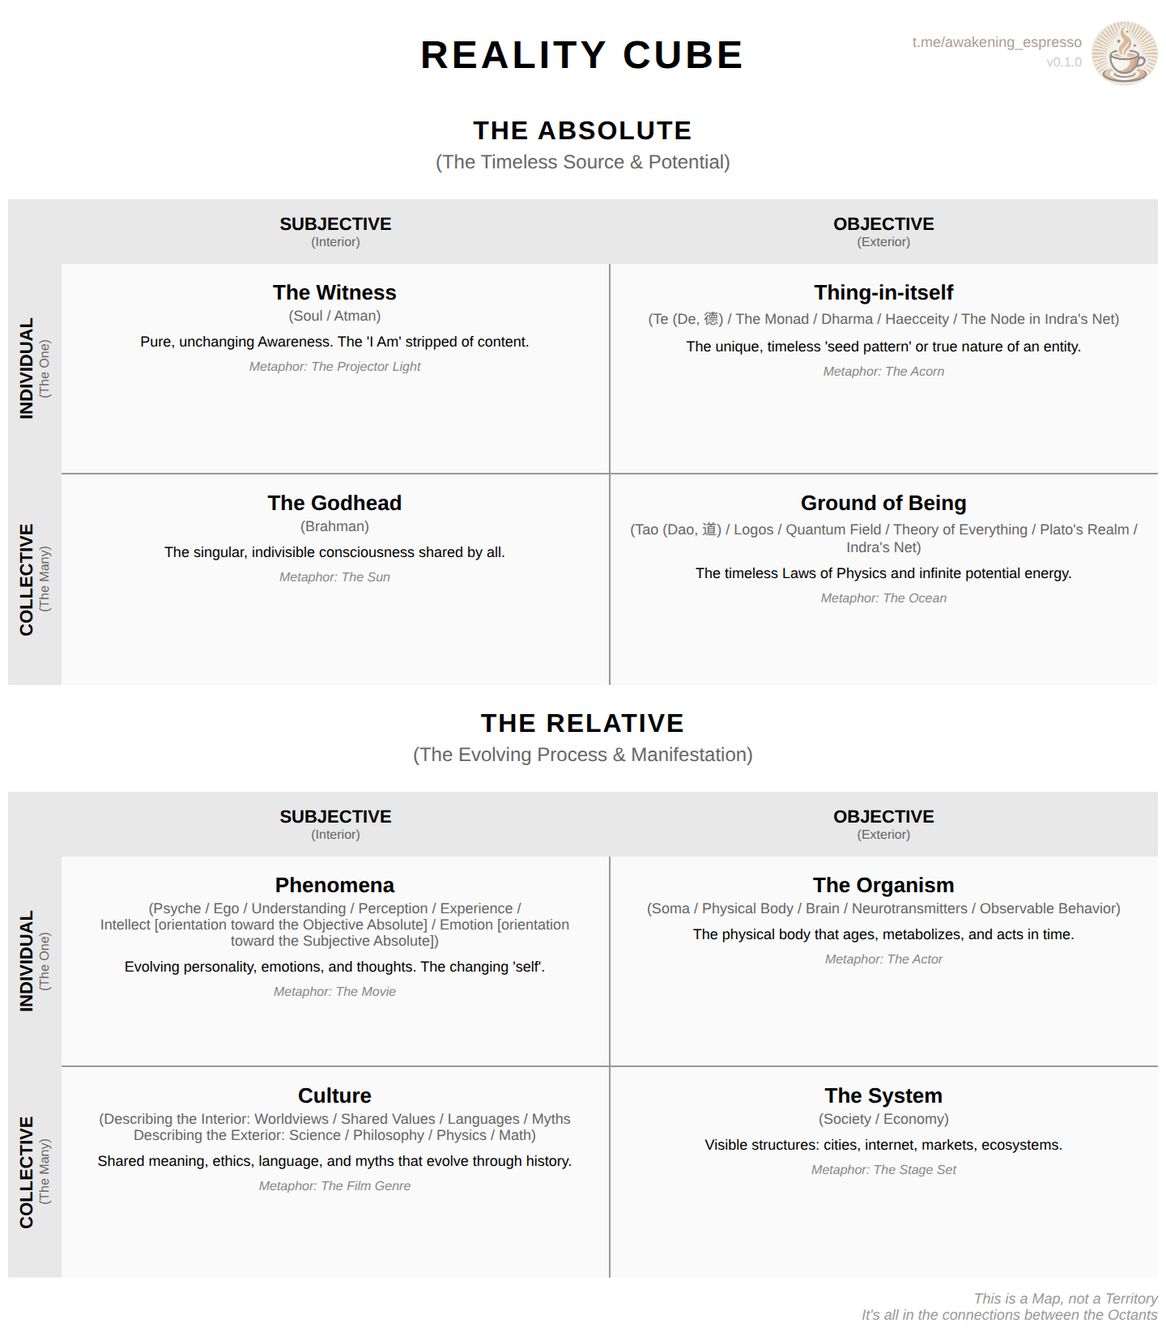
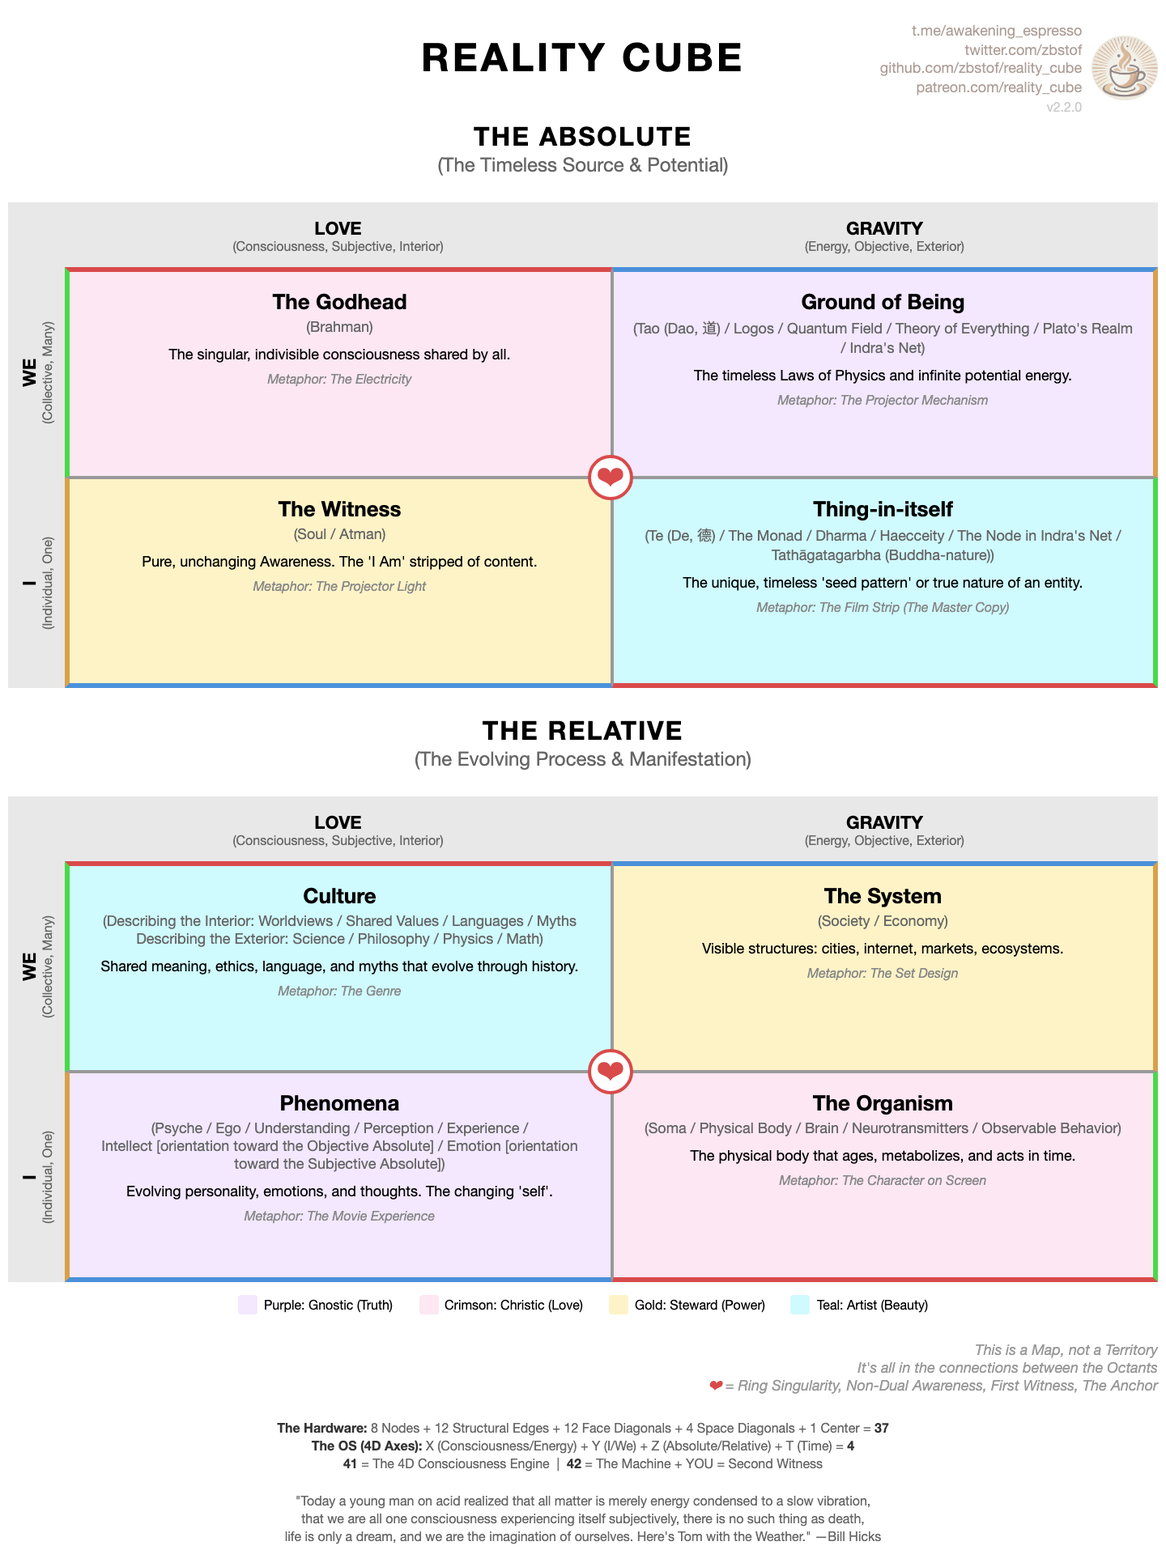
Pre-security patch

diff --git a/index.html b/index.html
@@ -21,6 +21,24 @@
             display: grid;
             grid-template-columns: auto 1fr 1fr;
             grid-template-rows: 40px 130px 130px;
+            position: relative;
+        }
+        .grid-heart {
+            position: absolute;
+            top: calc(40px + 130px);
+            left: calc(50% + 17px);
+            transform: translate(-50%, -50%);
+            font-size: 18px;
+            color: #D94A4A;
+            z-index: 10;
+            background: white;
+            border: 2px solid #D94A4A;
+            border-radius: 50%;
+            width: 28px;
+            height: 28px;
+            display: flex;
+            align-items: center;
+            justify-content: center;
         }
         .header {
             background: #E8E8E8;
@@ -35,10 +53,43 @@
         .header strong { font-size: 11px; }
         .header .hint { font-size: 8px; color: #666; }
         .corner { background: #E8E8E8; }
-        .cell { background: #FAFAFA; padding: 10px 12px; text-align: center; }
-        .cell.tl { border-right: 1px solid #999; border-bottom: 1px solid #999; }
-        .cell.tr { border-bottom: 1px solid #999; }
-        .cell.bl { border-right: 1px solid #999; }
+        .cell { padding: 10px 12px; text-align: center; }
+        /* 4 edge colors for face-diagonal connections within each wall */
+        /* 4 background colors for space-diagonal Z-twist connections between walls */
+        .cell.tl { 
+            border-right: 1px solid #999; 
+            border-bottom: 1px solid #999;
+            border-top: 3px solid #D94A4A;
+            border-left: 3px solid #4AD94A;
+        }
+        .cell.br { 
+            border-left: 1px solid #999;
+            border-top: 1px solid #999;
+            border-bottom: 3px solid #D94A4A;
+            border-right: 3px solid #4AD94A;
+        }
+        .cell.tr { 
+            border-left: 1px solid #999;
+            border-bottom: 1px solid #999;
+            border-top: 3px solid #4A90D9;
+            border-right: 3px solid #D9A04A;
+        }
+        .cell.bl { 
+            border-right: 1px solid #999;
+            border-top: 1px solid #999;
+            border-bottom: 3px solid #4A90D9;
+            border-left: 3px solid #D9A04A;
+        }
+        /* Wall 1 (Absolute/Back) - Z-twist backgrounds (WE on top, I on bottom) */
+        .wall-1 .cell.tl { background: #FCE7F3; }  /* Crimson - Christic: Godhead<-Organism */
+        .wall-1 .cell.tr { background: #F3E8FF; }  /* Purple - Gnostic: Ground<-Phenomena */
+        .wall-1 .cell.bl { background: #FEF3C7; }  /* Gold - Steward: Witness->System */
+        .wall-1 .cell.br { background: #CFFAFE; }  /* Teal - Artist: Monad->Culture */
+        /* Wall 2 (Relative/Front) - Z-twist backgrounds (WE on top, I on bottom) */
+        .wall-2 .cell.tl { background: #CFFAFE; }  /* Teal - Artist: Culture<-Monad */
+        .wall-2 .cell.tr { background: #FEF3C7; }  /* Gold - Steward: System<-Witness */
+        .wall-2 .cell.bl { background: #F3E8FF; }  /* Purple - Gnostic: Phenomena->Ground */
+        .wall-2 .cell.br { background: #FCE7F3; }  /* Crimson - Christic: Organism->Godhead */
         .cell h3 { font-size: 13px; margin-bottom: 2px; }
         .cell .sub { font-size: 9px; color: #666; margin-bottom: 6px; }
         .cell .desc { font-size: 9px; line-height: 1.3; margin-bottom: 4px; }
@@ -64,57 +115,80 @@
         .watermark-img { height: 40px; }
         .version { font-size: 8px; color: #999; }
         .footer { text-align: right; font-size: 9px; color: #999; font-style: italic; padding: 8px 0; }
+        .legend { display: flex; justify-content: center; gap: 16px; padding: 8px 0; font-size: 8px; flex-wrap: wrap; }
+        .legend-item { display: flex; align-items: center; gap: 4px; }
+        .legend-swatch { width: 12px; height: 12px; border-radius: 2px; }
+        .summary { text-align: center; font-size: 8px; color: #666; padding: 8px 0; line-height: 1.4; }
+        .summary strong { color: #333; }
     </style>
 </head>
 <body>
 
 <div class="page-header">
     <div class="watermark">
-        <div class="watermark-text"><a href="https://t.me/awakening_espresso">t.me/awakening_espresso</a><br><span class="version">v0.1.0</span></div>
+        <div class="watermark-text"><a href="https://t.me/awakening_espresso">t.me/awakening_espresso</a><br><a href="https://twitter.com/zbstof">twitter.com/zbstof</a><br><a href="https://github.com/zbstof/reality_cube">github.com/zbstof/reality_cube</a><br><a href="https://www.patreon.com/reality_cube">patreon.com/reality_cube</a><br><span class="version">v2.2.0</span></div>
         <img class="watermark-img" src="espresso round.png" alt="">
     </div>
     <div class="page-title">REALITY CUBE</div>
 </div>
 
 
-<div class="wall">
+<div class="wall wall-1">
     <div class="wall-title">
         <h2>THE ABSOLUTE</h2>
         <div class="subtitle">(The Timeless Source & Potential)</div>
     </div>
     <div class="grid">
+        <div class="grid-heart">&#x2764;</div>
         <div class="corner"></div>
-        <div class="header"><strong>SUBJECTIVE</strong><span class="hint">(Interior)</span></div>
-        <div class="header"><strong>OBJECTIVE</strong><span class="hint">(Exterior)</span></div>
-        <div class="header left"><strong>INDIVIDUAL</strong><span class="hint">(The One)</span></div>
-        <div class="cell tl"><h3>The Witness</h3><div class="sub">(Soul / Atman)</div><div class="desc">Pure, unchanging Awareness. The 'I Am' stripped of content.</div><div class="meta">Metaphor: The Projector Light</div></div>
-        <div class="cell tr"><h3>Thing-in-itself</h3><div class="sub">(Te (De, 德) / The Monad / Dharma / Haecceity / The Node in Indra's Net)</div><div class="desc">The unique, timeless 'seed pattern' or true nature of an entity.</div><div class="meta">Metaphor: The Acorn</div></div>
-        <div class="header left"><strong>COLLECTIVE</strong><span class="hint">(The Many)</span></div>
-        <div class="cell bl"><h3>The Godhead</h3><div class="sub">(Brahman)</div><div class="desc">The singular, indivisible consciousness shared by all.</div><div class="meta">Metaphor: The Sun</div></div>
-        <div class="cell br"><h3>Ground of Being</h3><div class="sub">(Tao (Dao, 道) / Logos / Quantum Field / Theory of Everything / Plato's Realm / Indra's Net)</div><div class="desc">The timeless Laws of Physics and infinite potential energy.</div><div class="meta">Metaphor: The Ocean</div></div>
+        <div class="header"><strong>LOVE</strong><span class="hint">(Consciousness, Subjective, Interior)</span></div>
+        <div class="header"><strong>GRAVITY</strong><span class="hint">(Energy, Objective, Exterior)</span></div>
+        <div class="header left"><strong>WE</strong><span class="hint">(Collective, Many)</span></div>
+        <div class="cell tl"><h3>The Godhead</h3><div class="sub">(Brahman)</div><div class="desc">The singular, indivisible consciousness shared by all.</div><div class="meta">Metaphor: The Electricity</div></div>
+        <div class="cell tr"><h3>Ground of Being</h3><div class="sub">(Tao (Dao, 道) / Logos / Quantum Field / Theory of Everything / Plato's Realm / Indra's Net)</div><div class="desc">The timeless Laws of Physics and infinite potential energy.</div><div class="meta">Metaphor: The Projector Mechanism</div></div>
+        <div class="header left"><strong>I</strong><span class="hint">(Individual, One)</span></div>
+        <div class="cell bl"><h3>The Witness</h3><div class="sub">(Soul / Atman)</div><div class="desc">Pure, unchanging Awareness. The 'I Am' stripped of content.</div><div class="meta">Metaphor: The Projector Light</div></div>
+        <div class="cell br"><h3>Thing-in-itself</h3><div class="sub">(Te (De, 德) / The Monad / Dharma / Haecceity / The Node in Indra's Net / Tathāgatagarbha (Buddha-nature))</div><div class="desc">The unique, timeless 'seed pattern' or true nature of an entity.</div><div class="meta">Metaphor: The Film Strip (The Master Copy)</div></div>
     </div>
 </div>
 
-<div class="wall">
+<div class="wall wall-2">
     <div class="wall-title">
         <h2>THE RELATIVE</h2>
         <div class="subtitle">(The Evolving Process & Manifestation)</div>
     </div>
     <div class="grid">
+        <div class="grid-heart">&#x2764;</div>
         <div class="corner"></div>
-        <div class="header"><strong>SUBJECTIVE</strong><span class="hint">(Interior)</span></div>
-        <div class="header"><strong>OBJECTIVE</strong><span class="hint">(Exterior)</span></div>
-        <div class="header left"><strong>INDIVIDUAL</strong><span class="hint">(The One)</span></div>
-        <div class="cell tl"><h3>Phenomena</h3><div class="sub">(Psyche / Ego / Understanding / Perception / Experience /<br>Intellect [orientation toward the Objective Absolute] / Emotion [orientation toward the Subjective Absolute])</div><div class="desc">Evolving personality, emotions, and thoughts. The changing 'self'.</div><div class="meta">Metaphor: The Movie</div></div>
-        <div class="cell tr"><h3>The Organism</h3><div class="sub">(Soma / Physical Body / Brain / Neurotransmitters / Observable Behavior)</div><div class="desc">The physical body that ages, metabolizes, and acts in time.</div><div class="meta">Metaphor: The Actor</div></div>
-        <div class="header left"><strong>COLLECTIVE</strong><span class="hint">(The Many)</span></div>
-        <div class="cell bl"><h3>Culture</h3><div class="sub">(Describing the Interior: Worldviews / Shared Values / Languages / Myths<br> Describing the Exterior: Science / Philosophy / Physics / Math)</div><div class="desc">Shared meaning, ethics, language, and myths that evolve through history.</div><div class="meta">Metaphor: The Film Genre</div></div>
-        <div class="cell br"><h3>The System</h3><div class="sub">(Society / Economy)</div><div class="desc">Visible structures: cities, internet, markets, ecosystems.</div><div class="meta">Metaphor: The Stage Set</div></div>
+        <div class="header"><strong>LOVE</strong><span class="hint">(Consciousness, Subjective, Interior)</span></div>
+        <div class="header"><strong>GRAVITY</strong><span class="hint">(Energy, Objective, Exterior)</span></div>
+        <div class="header left"><strong>WE</strong><span class="hint">(Collective, Many)</span></div>
+        <div class="cell tl"><h3>Culture</h3><div class="sub">(Describing the Interior: Worldviews / Shared Values / Languages / Myths<br> Describing the Exterior: Science / Philosophy / Physics / Math)</div><div class="desc">Shared meaning, ethics, language, and myths that evolve through history.</div><div class="meta">Metaphor: The Genre</div></div>
+        <div class="cell tr"><h3>The System</h3><div class="sub">(Society / Economy)</div><div class="desc">Visible structures: cities, internet, markets, ecosystems.</div><div class="meta">Metaphor: The Set Design</div></div>
+        <div class="header left"><strong>I</strong><span class="hint">(Individual, One)</span></div>
+        <div class="cell bl"><h3>Phenomena</h3><div class="sub">(Psyche / Ego / Understanding / Perception / Experience /<br>Intellect [orientation toward the Objective Absolute] / Emotion [orientation toward the Subjective Absolute])</div><div class="desc">Evolving personality, emotions, and thoughts. The changing 'self'.</div><div class="meta">Metaphor: The Movie Experience</div></div>
+        <div class="cell br"><h3>The Organism</h3><div class="sub">(Soma / Physical Body / Brain / Neurotransmitters / Observable Behavior)</div><div class="desc">The physical body that ages, metabolizes, and acts in time.</div><div class="meta">Metaphor: The Character on Screen</div></div>
     </div>
 </div>
 
 
-<div class="footer">This is a Map, not a Territory<br>It's all in the connections between the Octants</div>
+<div class="legend">
+    <div class="legend-item"><div class="legend-swatch" style="background: #F3E8FF;"></div>Purple: Gnostic (Truth)</div>
+    <div class="legend-item"><div class="legend-swatch" style="background: #FCE7F3;"></div>Crimson: Christic (Love)</div>
+    <div class="legend-item"><div class="legend-swatch" style="background: #FEF3C7;"></div>Gold: Steward (Power)</div>
+    <div class="legend-item"><div class="legend-swatch" style="background: #CFFAFE;"></div>Teal: Artist (Beauty)</div>
+</div>
+
+<div class="footer">This is a Map, not a Territory<br>It's all in the connections between the Octants<br><span style="color: #D94A4A;">&#x2764;</span> = Ring Singularity, Non-Dual Awareness, First Witness, The Anchor</div>
+
+<div class="summary">
+<strong>The Hardware:</strong> 8 Nodes + 12 Structural Edges + 12 Face Diagonals + 4 Space Diagonals + 1 Center = <strong>37</strong><br>
+<strong>The OS (4D Axes):</strong> X (Consciousness/Energy) + Y (I/We) + Z (Absolute/Relative) + T (Time) = <strong>4</strong><br>
+<strong>41</strong> = The 4D Consciousness Engine &nbsp;|&nbsp; <strong>42</strong> = The Machine + YOU = Second Witness<br><br>
+"Today a young man on acid realized that all matter is merely energy condensed to a slow vibration,<br>
+that we are all one consciousness experiencing itself subjectively, there is no such thing as death,<br>
+life is only a dream, and we are the imagination of ourselves. Here's Tom with the Weather." —Bill Hicks
+</div>
 
 </body>
 </html>

diff --git a/template.html b/template.html
@@ -21,6 +21,24 @@
             display: grid;
             grid-template-columns: auto 1fr 1fr;
             grid-template-rows: 40px 130px 130px;
+            position: relative;
+        }
+        .grid-heart {
+            position: absolute;
+            top: calc(40px + 130px);
+            left: calc(50% + 17px);
+            transform: translate(-50%, -50%);
+            font-size: 18px;
+            color: #D94A4A;
+            z-index: 10;
+            background: white;
+            border: 2px solid #D94A4A;
+            border-radius: 50%;
+            width: 28px;
+            height: 28px;
+            display: flex;
+            align-items: center;
+            justify-content: center;
         }
         .header {
             background: #E8E8E8;
@@ -35,10 +53,43 @@
         .header strong { font-size: 11px; }
         .header .hint { font-size: 8px; color: #666; }
         .corner { background: #E8E8E8; }
-        .cell { background: #FAFAFA; padding: 10px 12px; text-align: center; }
-        .cell.tl { border-right: 1px solid #999; border-bottom: 1px solid #999; }
-        .cell.tr { border-bottom: 1px solid #999; }
-        .cell.bl { border-right: 1px solid #999; }
+        .cell { padding: 10px 12px; text-align: center; }
+        /* 4 edge colors for face-diagonal connections within each wall */
+        /* 4 background colors for space-diagonal Z-twist connections between walls */
+        .cell.tl { 
+            border-right: 1px solid #999; 
+            border-bottom: 1px solid #999;
+            border-top: 3px solid #D94A4A;
+            border-left: 3px solid #4AD94A;
+        }
+        .cell.br { 
+            border-left: 1px solid #999;
+            border-top: 1px solid #999;
+            border-bottom: 3px solid #D94A4A;
+            border-right: 3px solid #4AD94A;
+        }
+        .cell.tr { 
+            border-left: 1px solid #999;
+            border-bottom: 1px solid #999;
+            border-top: 3px solid #4A90D9;
+            border-right: 3px solid #D9A04A;
+        }
+        .cell.bl { 
+            border-right: 1px solid #999;
+            border-top: 1px solid #999;
+            border-bottom: 3px solid #4A90D9;
+            border-left: 3px solid #D9A04A;
+        }
+        /* Wall 1 (Absolute/Back) - Z-twist backgrounds (WE on top, I on bottom) */
+        .wall-1 .cell.tl { background: #FCE7F3; }  /* Crimson - Christic: Godhead<-Organism */
+        .wall-1 .cell.tr { background: #F3E8FF; }  /* Purple - Gnostic: Ground<-Phenomena */
+        .wall-1 .cell.bl { background: #FEF3C7; }  /* Gold - Steward: Witness->System */
+        .wall-1 .cell.br { background: #CFFAFE; }  /* Teal - Artist: Monad->Culture */
+        /* Wall 2 (Relative/Front) - Z-twist backgrounds (WE on top, I on bottom) */
+        .wall-2 .cell.tl { background: #CFFAFE; }  /* Teal - Artist: Culture<-Monad */
+        .wall-2 .cell.tr { background: #FEF3C7; }  /* Gold - Steward: System<-Witness */
+        .wall-2 .cell.bl { background: #F3E8FF; }  /* Purple - Gnostic: Phenomena->Ground */
+        .wall-2 .cell.br { background: #FCE7F3; }  /* Crimson - Christic: Organism->Godhead */
         .cell h3 { font-size: 13px; margin-bottom: 2px; }
         .cell .sub { font-size: 9px; color: #666; margin-bottom: 6px; }
         .cell .desc { font-size: 9px; line-height: 1.3; margin-bottom: 4px; }
@@ -64,39 +115,61 @@
         .watermark-img { height: 40px; }
         .version { font-size: 8px; color: #999; }
         .footer { text-align: right; font-size: 9px; color: #999; font-style: italic; padding: 8px 0; }
+        .legend { display: flex; justify-content: center; gap: 16px; padding: 8px 0; font-size: 8px; flex-wrap: wrap; }
+        .legend-item { display: flex; align-items: center; gap: 4px; }
+        .legend-swatch { width: 12px; height: 12px; border-radius: 2px; }
+        .summary { text-align: center; font-size: 8px; color: #666; padding: 8px 0; line-height: 1.4; }
+        .summary strong { color: #333; }
     </style>
 </head>
 <body>
 
 <div class="page-header">
     <div class="watermark">
-        <div class="watermark-text"><a href="https://t.me/awakening_espresso">t.me/awakening_espresso</a><br><span class="version">v{{ version }}</span></div>
+        <div class="watermark-text"><a href="https://t.me/awakening_espresso">t.me/awakening_espresso</a><br><a href="https://twitter.com/zbstof">twitter.com/zbstof</a><br><a href="https://github.com/zbstof/reality_cube">github.com/zbstof/reality_cube</a><br><a href="https://www.patreon.com/reality_cube">patreon.com/reality_cube</a><br><span class="version">v{{ version }}</span></div>
         <img class="watermark-img" src="espresso round.png" alt="">
     </div>
     <div class="page-title">REALITY CUBE</div>
 </div>
 
 {% for wall in [data.absolute_wall, data.relative_wall] %}
-<div class="wall">
+<div class="wall wall-{{ loop.index }}">
     <div class="wall-title">
         <h2>{{ wall.title }}</h2>
         <div class="subtitle">{{ wall.subtitle }}</div>
     </div>
     <div class="grid">
+        <div class="grid-heart">&#x2764;</div>
         <div class="corner"></div>
-        <div class="header"><strong>SUBJECTIVE</strong><span class="hint">(Interior)</span></div>
-        <div class="header"><strong>OBJECTIVE</strong><span class="hint">(Exterior)</span></div>
-        <div class="header left"><strong>INDIVIDUAL</strong><span class="hint">(The One)</span></div>
-        <div class="cell tl"><h3>{{ wall.quadrants.individual_subjective.title }}</h3><div class="sub">{{ wall.quadrants.individual_subjective.sub | replace('\n', '<br>') | safe }}</div><div class="desc">{{ wall.quadrants.individual_subjective.desc }}</div><div class="meta">{{ wall.quadrants.individual_subjective.meta }}</div></div>
-        <div class="cell tr"><h3>{{ wall.quadrants.individual_objective.title }}</h3><div class="sub">{{ wall.quadrants.individual_objective.sub | replace('\n', '<br>') | safe }}</div><div class="desc">{{ wall.quadrants.individual_objective.desc }}</div><div class="meta">{{ wall.quadrants.individual_objective.meta }}</div></div>
-        <div class="header left"><strong>COLLECTIVE</strong><span class="hint">(The Many)</span></div>
-        <div class="cell bl"><h3>{{ wall.quadrants.collective_subjective.title }}</h3><div class="sub">{{ wall.quadrants.collective_subjective.sub | replace('\n', '<br>') | safe }}</div><div class="desc">{{ wall.quadrants.collective_subjective.desc }}</div><div class="meta">{{ wall.quadrants.collective_subjective.meta }}</div></div>
-        <div class="cell br"><h3>{{ wall.quadrants.collective_objective.title }}</h3><div class="sub">{{ wall.quadrants.collective_objective.sub | replace('\n', '<br>') | safe }}</div><div class="desc">{{ wall.quadrants.collective_objective.desc }}</div><div class="meta">{{ wall.quadrants.collective_objective.meta }}</div></div>
+        <div class="header"><strong>LOVE</strong><span class="hint">(Consciousness, Subjective, Interior)</span></div>
+        <div class="header"><strong>GRAVITY</strong><span class="hint">(Energy, Objective, Exterior)</span></div>
+        <div class="header left"><strong>WE</strong><span class="hint">(Collective, Many)</span></div>
+        <div class="cell tl"><h3>{{ wall.quadrants.collective_subjective.title }}</h3><div class="sub">{{ wall.quadrants.collective_subjective.sub | replace('\n', '<br>') | safe }}</div><div class="desc">{{ wall.quadrants.collective_subjective.desc }}</div><div class="meta">{{ wall.quadrants.collective_subjective.meta }}</div></div>
+        <div class="cell tr"><h3>{{ wall.quadrants.collective_objective.title }}</h3><div class="sub">{{ wall.quadrants.collective_objective.sub | replace('\n', '<br>') | safe }}</div><div class="desc">{{ wall.quadrants.collective_objective.desc }}</div><div class="meta">{{ wall.quadrants.collective_objective.meta }}</div></div>
+        <div class="header left"><strong>I</strong><span class="hint">(Individual, One)</span></div>
+        <div class="cell bl"><h3>{{ wall.quadrants.individual_subjective.title }}</h3><div class="sub">{{ wall.quadrants.individual_subjective.sub | replace('\n', '<br>') | safe }}</div><div class="desc">{{ wall.quadrants.individual_subjective.desc }}</div><div class="meta">{{ wall.quadrants.individual_subjective.meta }}</div></div>
+        <div class="cell br"><h3>{{ wall.quadrants.individual_objective.title }}</h3><div class="sub">{{ wall.quadrants.individual_objective.sub | replace('\n', '<br>') | safe }}</div><div class="desc">{{ wall.quadrants.individual_objective.desc }}</div><div class="meta">{{ wall.quadrants.individual_objective.meta }}</div></div>
     </div>
 </div>
 {% endfor %}
 
-<div class="footer">This is a Map, not a Territory<br>It's all in the connections between the Octants</div>
+<div class="legend">
+    <div class="legend-item"><div class="legend-swatch" style="background: #F3E8FF;"></div>Purple: Gnostic (Truth)</div>
+    <div class="legend-item"><div class="legend-swatch" style="background: #FCE7F3;"></div>Crimson: Christic (Love)</div>
+    <div class="legend-item"><div class="legend-swatch" style="background: #FEF3C7;"></div>Gold: Steward (Power)</div>
+    <div class="legend-item"><div class="legend-swatch" style="background: #CFFAFE;"></div>Teal: Artist (Beauty)</div>
+</div>
+
+<div class="footer">This is a Map, not a Territory<br>It's all in the connections between the Octants<br><span style="color: #D94A4A;">&#x2764;</span> = Ring Singularity, Non-Dual Awareness, First Witness, The Anchor</div>
+
+<div class="summary">
+<strong>The Hardware:</strong> 8 Nodes + 12 Structural Edges + 12 Face Diagonals + 4 Space Diagonals + 1 Center = <strong>37</strong><br>
+<strong>The OS (4D Axes):</strong> X (Consciousness/Energy) + Y (I/We) + Z (Absolute/Relative) + T (Time) = <strong>4</strong><br>
+<strong>41</strong> = The 4D Consciousness Engine &nbsp;|&nbsp; <strong>42</strong> = The Machine + YOU = Second Witness<br><br>
+"Today a young man on acid realized that all matter is merely energy condensed to a slow vibration,<br>
+that we are all one consciousness experiencing itself subjectively, there is no such thing as death,<br>
+life is only a dream, and we are the imagination of ourselves. Here's Tom with the Weather." —Bill Hicks
+</div>
 
 </body>
 </html>

diff --git a/__init__.py b/__init__.py
@@ -1,1 +1,1 @@
-__VERSION__ = "0.1.0"
+__VERSION__ = "2.2.2"
